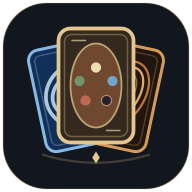
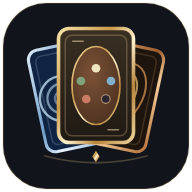
Refine the card-fan emblem: foil rims, medallion and a slow sheen
Claude-Session: https://claude.ai/code/session_01P1bFWqQCrqoAuUEvh91vDi

diff --git a/brand.js b/brand.js
@@ -1,40 +1,47 @@
-// One original vector emblem for the app, assistant and install artwork.
-// Motifs echo the three games without squeezing their wordmarks into an icon.
+// One original vector emblem for the app, assistant and install artwork: three fanned cards with foil
+// rims (silver-blue, gold, copper), echoing the three games without borrowing their marks.
+// Gradients are defined per instance (the emblem often lives inside hidden menus, where a shared
+// gradient id would stop rendering), so every call returns its own ids.
 const SVG = `<svg xmlns="http://www.w3.org/2000/svg" viewBox="0 0 128 128" class="stashy-logo" aria-hidden="true">
-<rect class="brand-backplate" x="2" y="2" width="124" height="124" rx="29" fill="#12161e" stroke="#d8bb7c" stroke-opacity=".22"/>
-<path d="M28 103Q64 114 100 103" fill="none" stroke="#d8bb7c" stroke-opacity=".25" stroke-width="1.5"/>
+<defs>
+<linearGradient id="bfG" x1="0" y1="0" x2="1" y2="1"><stop offset="0" stop-color="#f6e2a8"/><stop offset=".35" stop-color="#c99a4b"/><stop offset=".55" stop-color="#fff2cc"/><stop offset=".75" stop-color="#b8843a"/><stop offset="1" stop-color="#ecd29a"/></linearGradient>
+<linearGradient id="bfS" x1="0" y1="0" x2="1" y2="1"><stop offset="0" stop-color="#dcebf7"/><stop offset=".4" stop-color="#6f9cc7"/><stop offset=".6" stop-color="#e9f4ff"/><stop offset="1" stop-color="#7ea8d1"/></linearGradient>
+<linearGradient id="bfC" x1="0" y1="0" x2="1" y2="1"><stop offset="0" stop-color="#f0c08a"/><stop offset=".45" stop-color="#9c5d2b"/><stop offset=".65" stop-color="#f6cf9c"/><stop offset="1" stop-color="#b5733c"/></linearGradient>
+<linearGradient id="bfF" x1="0" y1="0" x2="0" y2="1"><stop offset="0" stop-color="#3a2f22"/><stop offset="1" stop-color="#1e1913"/></linearGradient>
+<radialGradient id="bfM" cx=".42" cy=".35" r=".75"><stop offset="0" stop-color="#7b5236"/><stop offset="1" stop-color="#4a2f1f"/></radialGradient>
+<linearGradient id="bfL" x1="0" y1="0" x2="1" y2="0"><stop offset="0" stop-color="#fff" stop-opacity="0"/><stop offset=".45" stop-color="#fff" stop-opacity="0"/><stop offset=".5" stop-color="#fff" stop-opacity=".55"/><stop offset=".55" stop-color="#ffe9f6" stop-opacity="0"/><stop offset="1" stop-color="#fff" stop-opacity="0"/></linearGradient>
+<clipPath id="bfK"><rect x="39" y="19" width="50" height="76" rx="7"/></clipPath>
+</defs>
+<rect class="brand-backplate" x="2" y="2" width="124" height="124" rx="29" fill="#11141b" stroke="#d8bb7c" stroke-opacity=".22"/>
+<path d="M30 104Q64 113 98 104" fill="none" stroke="#d8bb7c" stroke-opacity=".28" stroke-width="1.2" stroke-linecap="round"/>
 <g class="brand-card brand-left" transform="translate(8 0) rotate(-12 64 98)" style="--fan-from:-12deg;--fan-to:-12deg">
-<rect x="24" y="25" width="48" height="69" rx="7" fill="#102f59" stroke="#88b9e3" stroke-width="2"/>
-<rect x="28" y="29" width="40" height="61" rx="4" fill="none" stroke="#d3e9fa" stroke-opacity=".25"/>
-<path d="M37 76C17 56 45 30 59 43C77 60 51 86 37 68C28 56 45 40 55 50" fill="none" stroke="#d9ecfa" stroke-opacity=".8" stroke-width="2.5"/>
-<circle cx="48" cy="59" r="9" fill="#e5e4db" stroke="#142238" stroke-width="1.5"/>
-<path d="M39 59a9 9 0 0 1 18 0z" fill="#b94e48"/>
-<path d="M39 59h18" stroke="#142238" stroke-width="2"/>
-<circle cx="48" cy="59" r="3" fill="#eef4f7" stroke="#142238" stroke-width="1.5"/>
+<rect x="24" y="25" width="48" height="69" rx="6.5" fill="#0f2442" stroke="url(#bfS)" stroke-width="2"/>
+<rect x="28.5" y="29.5" width="39" height="60" rx="4" fill="none" stroke="#cfe3f5" stroke-opacity=".18"/>
+<g fill="none" stroke="#bcd8ef" stroke-width="1.6"><circle cx="41" cy="60" r="15" stroke-opacity=".8"/><circle cx="41" cy="60" r="10" stroke-opacity=".6"/><circle cx="41" cy="60" r="5" stroke-opacity=".45"/></g>
 </g>
 <g class="brand-card brand-right" transform="translate(-8 0) rotate(12 64 98)" style="--fan-from:12deg;--fan-to:12deg">
-<rect x="56" y="25" width="48" height="69" rx="7" fill="#20150f" stroke="#d49b59" stroke-width="2"/>
-<rect x="60" y="29" width="40" height="61" rx="4" fill="none" stroke="#e5b46c" stroke-opacity=".25"/>
-<ellipse cx="80" cy="59" rx="16" ry="25" transform="rotate(24 80 59)" fill="none" stroke="#be7638" stroke-width="1.5"/>
-<ellipse cx="80" cy="59" rx="12" ry="21" transform="rotate(24 80 59)" fill="none" stroke="#e0aa62" stroke-width="1.5"/>
-<ellipse cx="80" cy="59" rx="8" ry="16" transform="rotate(24 80 59)" fill="#100f11" stroke="#976032"/>
+<rect x="56" y="25" width="48" height="69" rx="6.5" fill="#1d140e" stroke="url(#bfC)" stroke-width="2"/>
+<rect x="60.5" y="29.5" width="39" height="60" rx="4" fill="none" stroke="#e5b46c" stroke-opacity=".18"/>
+<ellipse cx="80" cy="59" rx="15" ry="23" transform="rotate(20 80 59)" fill="none" stroke="#c98a4f" stroke-opacity=".8" stroke-width="1.3"/>
+<ellipse cx="80" cy="59" rx="9.5" ry="16" transform="rotate(20 80 59)" fill="none" stroke="#e7b874" stroke-opacity=".75" stroke-width="1.3"/>
+<ellipse cx="80" cy="59" rx="4" ry="8" transform="rotate(20 80 59)" fill="#0e0c0c" stroke="#9a6334"/>
 </g>
 <g class="brand-card brand-center" style="--fan-from:0deg;--fan-to:0deg">
-<rect x="39" y="19" width="50" height="76" rx="8" fill="#33291e" stroke="#e4c78e" stroke-width="2.5"/>
-<rect x="43" y="23" width="42" height="68" rx="5" fill="none" stroke="#e4c78e" stroke-opacity=".35"/>
-<ellipse cx="64" cy="57" rx="17" ry="28" fill="#70472f" stroke="#bda474" stroke-width="1.2"/>
-<circle cx="64" cy="45" r="3.4" fill="#ece0b3"/>
-<circle cx="53" cy="54" r="3.4" fill="#72946a"/>
-<circle cx="75" cy="54" r="3.4" fill="#70a6c3"/>
-<circle cx="57" cy="67" r="3.4" fill="#bd6a52"/>
-<circle cx="71" cy="67" r="3.4" fill="#25212b" stroke="#aa8b6b" stroke-width=".8"/>
-<path d="M48 27h9m14 60h9" stroke="#f0dcb1" stroke-opacity=".65" stroke-linecap="round"/>
+<rect x="39" y="19" width="50" height="76" rx="7" fill="url(#bfF)" stroke="url(#bfG)" stroke-width="2.4"/>
+<rect x="43.5" y="23.5" width="41" height="67" rx="4.5" fill="none" stroke="#e4c78e" stroke-opacity=".28"/>
+<ellipse cx="64" cy="57" rx="16" ry="26" fill="url(#bfM)" stroke="url(#bfG)" stroke-width="1.1"/>
+<circle cx="64" cy="45.5" r="2.9" fill="#efe4c0"/><circle cx="54" cy="54" r="2.9" fill="#7fa27a"/><circle cx="74" cy="54" r="2.9" fill="#7fb0cc"/><circle cx="57.5" cy="66" r="2.9" fill="#c97c63"/><circle cx="70.5" cy="66" r="2.9" fill="#2a2530" stroke="#b39371" stroke-width=".7"/>
+<path d="M48.5 27.5h7m16.5 59h7" stroke="#f0dcb1" stroke-opacity=".55" stroke-linecap="round"/>
+<g clip-path="url(#bfK)"><rect class="brand-sheen" x="-11" y="15" width="70" height="84" fill="url(#bfL)"/></g>
 </g>
-<path d="m64 101 2.5 4-2.5 4-2.5-4z" fill="#e4c78e"/>
+<path d="m64 100.5 2.4 3.8-2.4 3.8-2.4-3.8z" fill="url(#bfG)"/>
 </svg>`;
+let seq = 0;
+// Gives one emblem its own gradient and clip ids.
+const own = svg => { const n = (++seq).toString(36); return svg.replace(/\bbf([A-Z])\b/g, `bf${n}$1`); };
 const frontCopy = side => SVG.match(new RegExp(`<g class="brand-card brand-${side}"[\\s\\S]*?<\\/g>`))[0]
   .replace(`brand-card brand-${side}`, `brand-cycle brand-cycle-${side}`);
 const animatedSVG = SVG.replace('</svg>', `${frontCopy('left')}${frontCopy('right')}</svg>`);
-export const brandStaticMark = () => SVG;
-export const brandMark = (mode = '') => animatedSVG.replace('class="stashy-logo"',
-  `class="stashy-logo ${mode.replace(/[^a-z -]/g, '')} brand-breathing"`);
+export const brandStaticMark = () => own(SVG);
+export const brandMark = (mode = '') => own(animatedSVG.replace('class="stashy-logo"',
+  `class="stashy-logo ${mode.replace(/[^a-z -]/g, '')} brand-breathing"`));

diff --git a/index.html b/index.html
@@ -7,8 +7,8 @@
 <script src="theme-init.js"></script>
 <meta name="description" content="CardStashy — your Magic: The Gathering, Pokémon and Yu-Gi-Oh! collections, binders and decks in one place.">
 <link rel="manifest" href="manifest.webmanifest">
-<link rel="icon" href="icon.svg?v=3.85.17" type="image/svg+xml">
-<link rel="apple-touch-icon" href="icon-192.png?v=3.85.17">
+<link rel="icon" href="icon.svg?v=3.89.0" type="image/svg+xml">
+<link rel="apple-touch-icon" href="icon-192.png?v=3.89.0">
 <link rel="preconnect" href="https://fonts.googleapis.com">
 <link rel="preconnect" href="https://fonts.gstatic.com" crossorigin>
 <link rel="stylesheet" href="https://fonts.googleapis.com/css2?family=DM+Sans:opsz,wght@9..40,400;9..40,500;9..40,600;9..40,700&family=Manrope:wght@600;700;800&display=swap">
@@ -29,7 +29,7 @@
 <div id="ambient" aria-hidden="true"><div class="amb-art"></div></div>
 <div id="app">
   <header class="topbar">
-    <a class="brand brand-home" href="#home" data-nav="home" aria-label="CardStashy Home" title="Home"><span class="mark"><img src="icon.svg?v=3.74.0" alt=""></span><span class="brand-wordmark">CardStashy</span><span class="brand-home-label">Home</span></a>
+    <a class="brand brand-home" href="#home" data-nav="home" aria-label="CardStashy Home" title="Home"><span class="mark"><img src="icon.svg?v=3.89.0" alt=""></span><span class="brand-wordmark">CardStashy</span><span class="brand-home-label">Home</span></a>
     <div id="gameTabs" class="game-tabs" role="tablist" aria-label="Choose your card game"></div>
     <div id="desktopSearch" hidden><button class="header-sets btn ghost" data-act="go" data-to="#sets" data-nav="sets" aria-label="Browse sets"><svg viewBox="0 0 24 24" aria-hidden="true" fill="none" stroke="currentColor" stroke-width="1.7"><rect x="7" y="4" width="13" height="17" rx="2"/><path d="M4 17V5a3 3 0 0 1 3-3h9M10 9h7M10 13h7M10 17h4"/></svg><span>Sets</span></button></div>
     <nav class="top-nav" aria-label="Main">

diff --git a/brand-motion.css b/brand-motion.css
@@ -25,7 +25,10 @@
   .stashy-logo.brand-breathing .brand-cycle { display:block; transform-origin:64px 98px; transform-box:view-box; opacity:0; }
   .stashy-logo.brand-breathing .brand-cycle-left { animation:brand-left-front 18s ease-in-out infinite; }
   .stashy-logo.brand-breathing .brand-cycle-right { animation:brand-right-front 18s ease-in-out infinite; }
+  /* A light sweep crosses the gold card's foil now and then. */
+  .stashy-logo.brand-breathing .brand-sheen { animation:brand-sheen 7.5s cubic-bezier(.4,0,.2,1) infinite; }
 }
+@keyframes brand-sheen { 0%,55% {transform:translateX(0)} 85%,100% {transform:translateX(78px)} }
 @keyframes ask-shimmer { 0%,100% {background-position:0% 50%} 50% {background-position:100% 50%} }
 @keyframes stashy-breathe {
   0%,100% { transform:translateY(0) scale(.98); }
